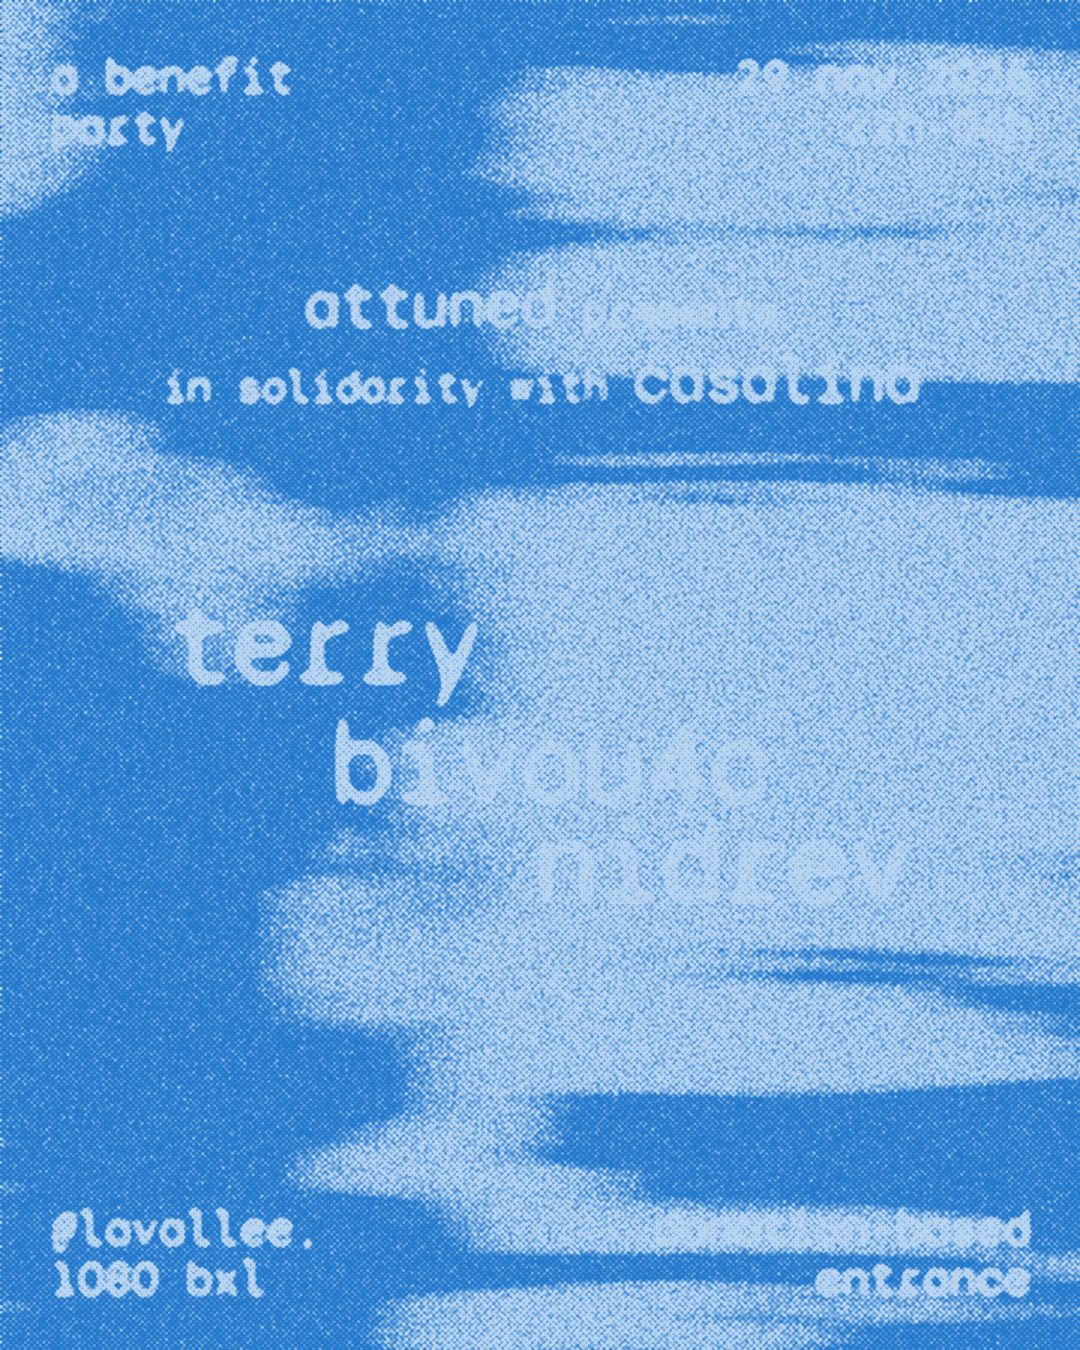
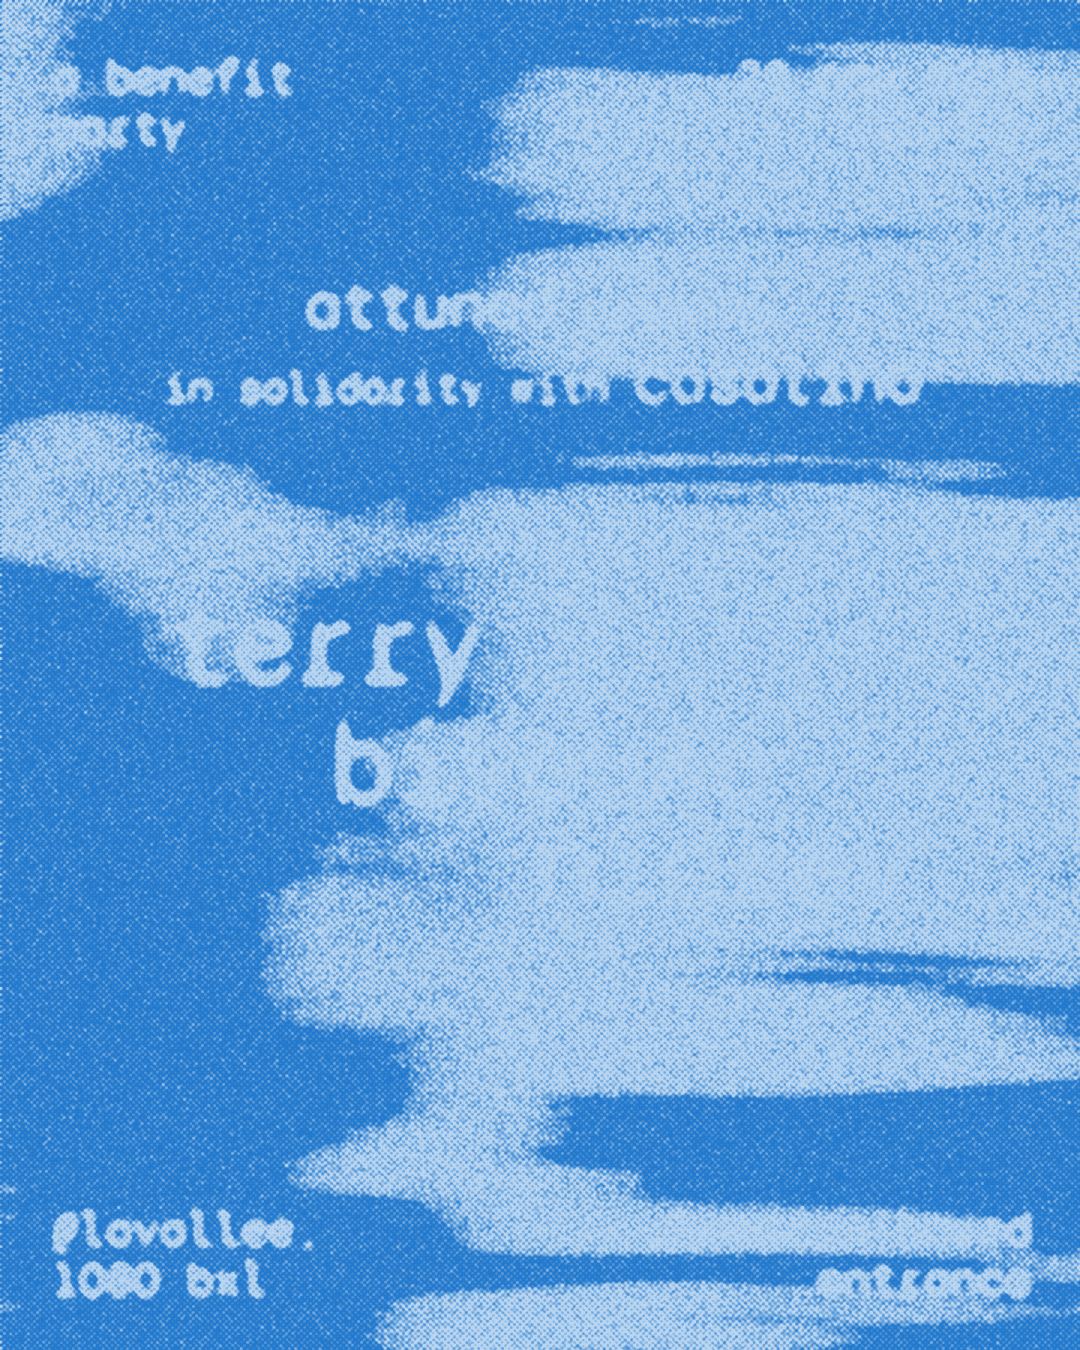
updates

diff --git a/src/components/Listing.css b/src/components/Listing.css
@@ -86,7 +86,7 @@
     }
 
     .block.blue {
-            background:
+    background:
         linear-gradient(to right,
         var(--bg-1) 0%,
         transparent 50%,
@@ -231,7 +231,7 @@
             drop-shadow(0 0 6px #E5ECE9)
             drop-shadow(0 0 12px #E5ECE9)
             drop-shadow(0 0 24px rgba(229, 236, 233, 0.5)); */
-        text-shadow: var(--bg-1) 1px 0px 0px, var(--bg-1) 0.540302px 0.841471px 0px, var(--bg-1) -0.416147px 0.909297px 0px, var(--bg-1) -0.989993px 0.14112px 0px, var(--bg-1) -0.653644px -0.756803px 0px, var(--bg-1) 0.283662px -0.958924px 0px, var(--bg-1) 0.96017px -0.279416px 0px;
+        /* text-shadow: var(--bg-1) 1px 0px 0px, var(--bg-1) 0.540302px 0.841471px 0px, var(--bg-1) -0.416147px 0.909297px 0px, var(--bg-1) -0.989993px 0.14112px 0px, var(--bg-1) -0.653644px -0.756803px 0px, var(--bg-1) 0.283662px -0.958924px 0px, var(--bg-1) 0.96017px -0.279416px 0px; */
         /* filter:
             drop-shadow(0 0 2px var(--bg-1))
             drop-shadow(0 0 6px var(--bg-1))
@@ -242,13 +242,23 @@
             drop-shadow(0 0 4px var(--bg-1))
             drop-shadow(0 0 6px var(--bg-1))
             drop-shadow(0 0 8px rgba(229, 236, 233, 0.5)); */
-        filter:
+        /* filter:
+            drop-shadow(0 0 2px var(--bg-1))
+            drop-shadow(0 0 4px var(--bg-1))
             drop-shadow(0 0 7px var(--bg-1))
-            drop-shadow(0 0 6px var(--bg-1))
-            drop-shadow(0 0 8px var(--bg-1))
-            drop-shadow(0 0 9px rgba(229, 236, 233, 0.7))
-            drop-shadow(0 0 11px rgba(229, 236, 233, 0.5));
+            drop-shadow(0 0 10px rgba(229, 236, 233, 0.8))
+            drop-shadow(0 0 14px rgba(229, 236, 233, 0.5)); */
+        /* filter:
+        drop-shadow(0 0 2px #D6D1CD)
+        drop-shadow(0 0 4px #D6D1CD)
+        drop-shadow(0 0 7px rgba(214, 209, 205, 0.8))
+        drop-shadow(0 0 10px rgba(214, 209, 205, 0.6))
+        drop-shadow(0 0 14px rgba(214, 209, 205, 0.4)); */
         padding: 2rem;
+    }
+
+    .description p {
+        text-shadow: rgb(214, 209, 205) 4px 0px 0px, rgb(214, 209, 205) 3.87565px 0.989616px 0px, rgb(214, 209, 205) 3.51033px 1.9177px 0px, rgb(214, 209, 205) 2.92676px 2.72656px 0px, rgb(214, 209, 205) 2.16121px 3.36588px 0px, rgb(214, 209, 205) 1.26129px 3.79594px 0px, rgb(214, 209, 205) 0.282949px 3.98998px 0px, rgb(214, 209, 205) -0.712984px 3.93594px 0px, rgb(214, 209, 205) -1.66459px 3.63719px 0px, rgb(214, 209, 205) -2.51269px 3.11229px 0px, rgb(214, 209, 205) -3.20457px 2.39389px 0px, rgb(214, 209, 205) -3.69721px 1.52664px 0px, rgb(214, 209, 205) -3.95997px 0.56448px 0px, rgb(214, 209, 205) -3.97652px -0.432781px 0px, rgb(214, 209, 205) -3.74583px -1.40313px 0px, rgb(214, 209, 205) -3.28224px -2.28625px 0px, rgb(214, 209, 205) -2.61457px -3.02721px 0px, rgb(214, 209, 205) -1.78435px -3.57996px 0px, rgb(214, 209, 205) -0.843183px -3.91012px 0px, rgb(214, 209, 205) 0.150409px -3.99717px 0px, rgb(214, 209, 205) 1.13465px -3.8357px 0px, rgb(214, 209, 205) 2.04834px -3.43574px 0px, rgb(214, 209, 205) 2.83468px -2.82216px 0px, rgb(214, 209, 205) 3.44477px -2.03312px 0px, rgb(214, 209, 205) 3.84068px -1.11766px 0px, rgb(214, 209, 205) 3.9978px -0.132717px 0px;
     }
 
     .listing .lineup {
@@ -361,11 +371,11 @@
         padding: 0;
         font-family: "Banana 2";
         font-size: 52px !important;
-        color: var(--bg-1);
+        color: var(--bg-buttons);
         filter:
             drop-shadow(0 0 1px rgb(255, 208, 80))
             drop-shadow(0 0 4px rgba(255, 209, 80, 0.5));
-        
+        letter-spacing: 0px !important;
     }
 
     .circle-lineup.pink p {

diff --git a/src/components/LeftDesktop.css b/src/components/LeftDesktop.css
@@ -33,7 +33,7 @@
     font-family: "Banana 2";
     font-weight: bold;
     font-size: 24px;
-    letter-spacing: 1.1px;
+    /* letter-spacing: 1.1px; */
     /* text-shadow:
             var(--bg-buttons) 2px 0px 0px,
             var(--bg-buttons) 1.75517px 0.958851px 0px,
